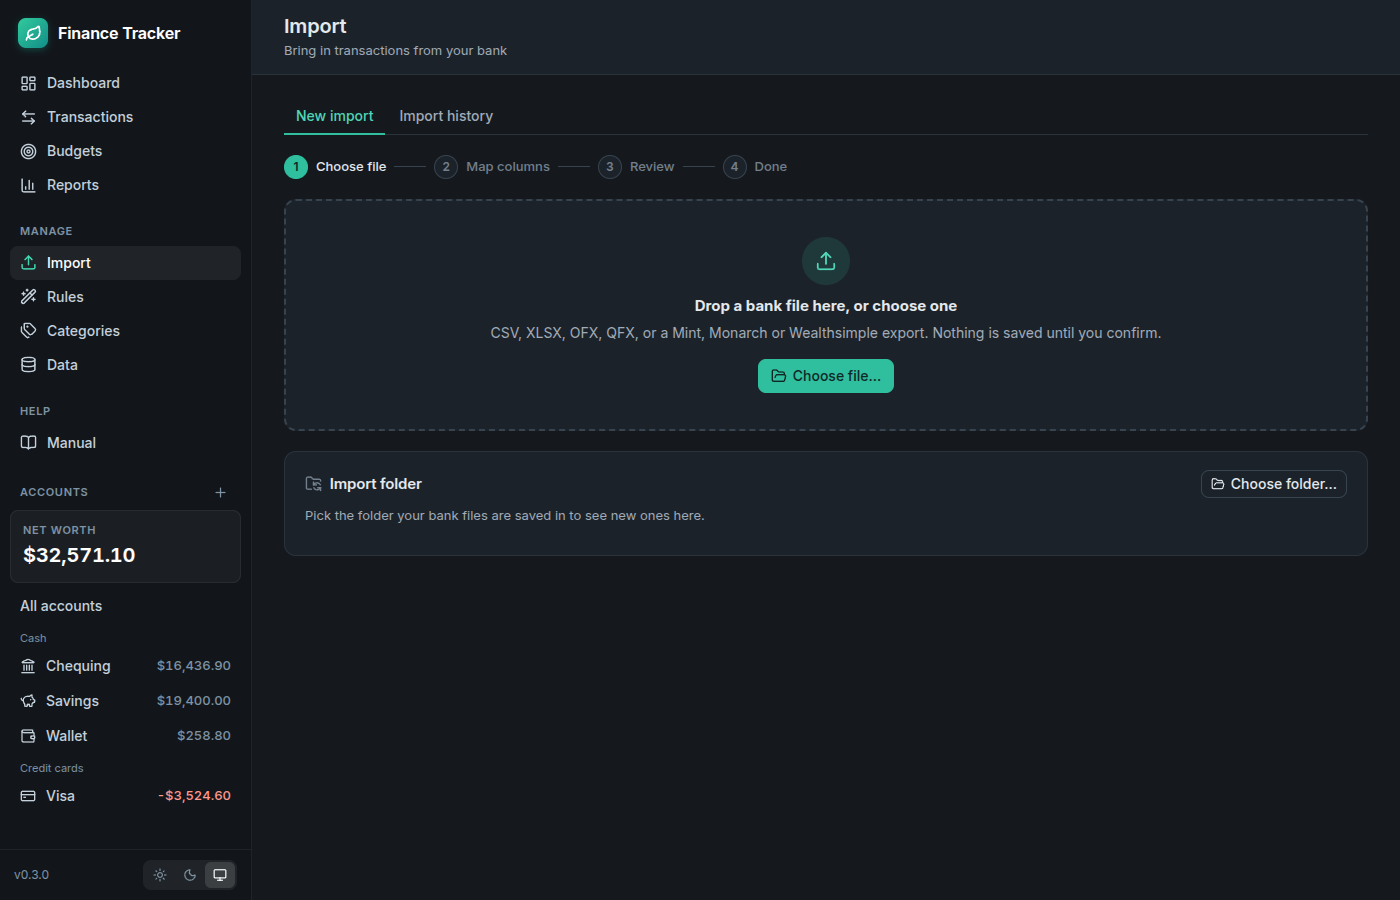
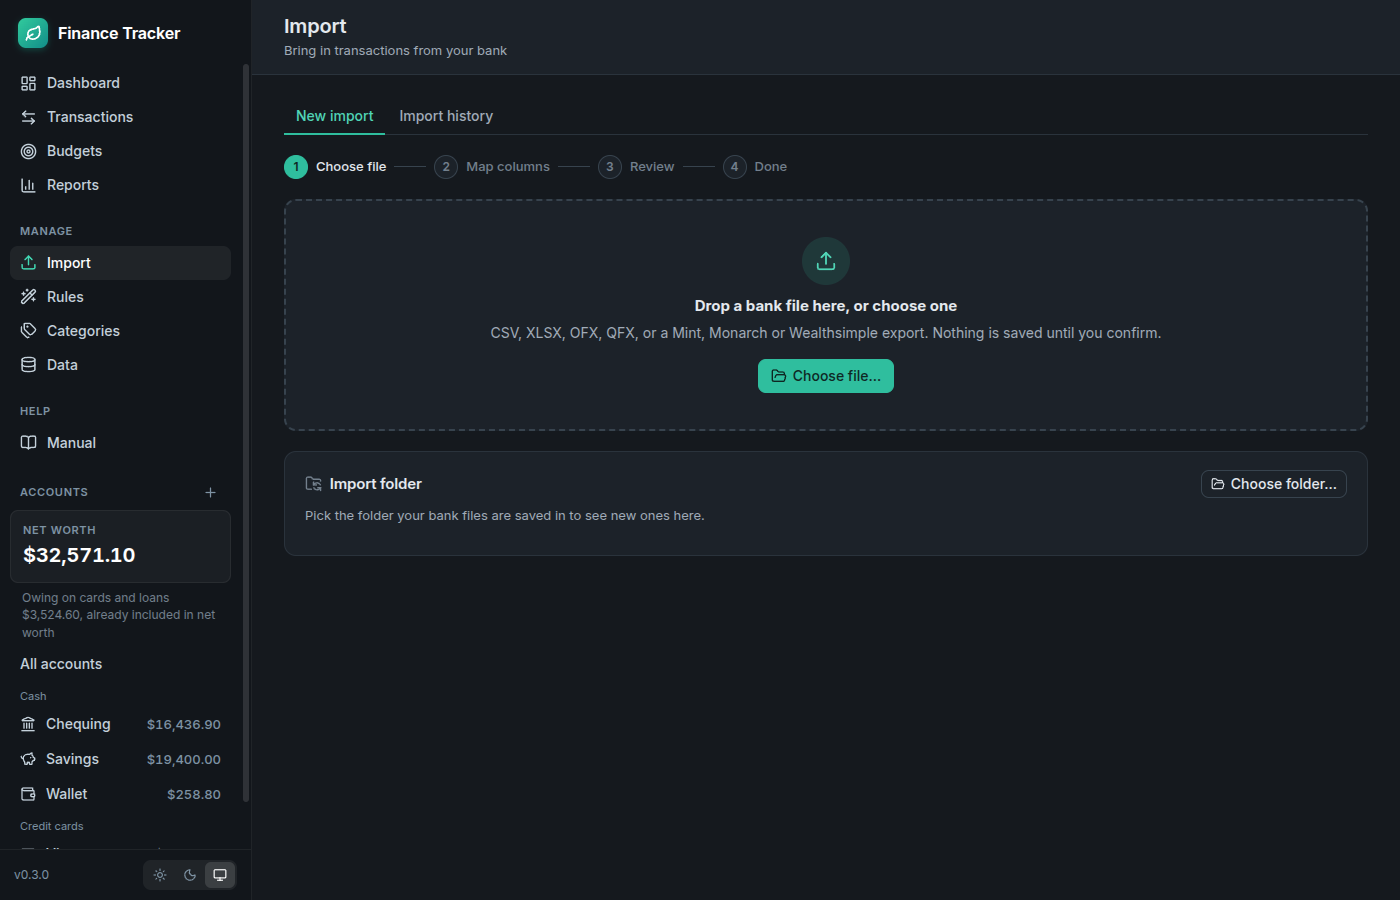
docs: feedback batch handoff and refreshed README screenshots
Claude-Session: https://claude.ai/code/session_015k7HiAdTpjfhzJFgrdU148

Changed region(s): [[0.0, 0.0933, 0.1843, 0.9333]]

diff --git a/CLAUDE.md b/CLAUDE.md
@@ -16,7 +16,7 @@ See `docs/design/00_project_brief.md`.
 
 ## Project status
 
-Milestones 1 (skeleton) and 2 (ledger: schema, core queries, IPC, transaction list, transfers, splits) are built. Milestone 3 (import) is built: CSV, OFX/QFX and Mint CSV, mapping profiles, duplicate detection, undo, history, and bank presets for RBC, TD and Tangerine, verified against real export headers and date formats (see `docs/design/04_import.md`). Milestone 4 (rules) is built in core, IPC and a basic editor (see `docs/design/05_rules.md`). Milestone 5 (search) is built: filters, saved searches and bulk actions (see `docs/design/06_search.md`). Milestone 6 (reports and dashboard) is built: category, income vs expenses, trend, payee and biggest-transaction reports, a dashboard home screen and category drill-down (see `docs/design/07_reports.md`). Milestone 7 (data safety) is built: database export and restore, transactions CSV export and automatic backups (see `docs/design/08_data_safety.md`). OFX/QFX and Mint import were clicked through headless (`import-formats.mjs`). Milestone 8 (packaging) is built: unsigned installers via electron-builder and a tag-triggered release workflow (see `docs/design/09_packaging.md`, ADR 0004). v0.1.0 is released (Linux AppImage, Windows exe, macOS arm64 dmg on the GitHub release page). After the MVP review: a Categories tab (add, rename, delete with reassign), a customizable dashboard, and account edit, archive and delete from the sidebar. After the design review (`docs/design/11_review_feedback.md`): duplicate hardening, flat categories with merge, category colours and icons, and per-category search totals are built. Also built: a rule prompt when a category is changed in the list, the watched import folder, default linking of card payments at import, category aliases (migration 10) and the hide-from-budgets flag (migration 11). budgets v1 (monthly standing amount per category, see `docs/design/12_budgets.md`, migration 12) with a dashboard widget. Look and feel (`docs/design/13_look_and_feel.md`, ADR 0005) is built: design tokens, light and dark themes, sidebar shell, dialogs and a layout pass on every screen; no `window.alert`/`window.confirm` remain. An in-app Manual (`docs/design/14_manual.md`) is built; keep `manualContent.ts` in step with user-visible changes. Spreadsheet (.xlsx) import is built (ADR 0006). Next: budget rollover (needs a decision, see design note 12).
+Milestones 1 (skeleton) and 2 (ledger: schema, core queries, IPC, transaction list, transfers, splits) are built. Milestone 3 (import) is built: CSV, OFX/QFX and Mint CSV, mapping profiles, duplicate detection, undo, history, and bank presets for RBC, TD and Tangerine, verified against real export headers and date formats (see `docs/design/04_import.md`). Milestone 4 (rules) is built in core, IPC and a basic editor (see `docs/design/05_rules.md`). Milestone 5 (search) is built: filters, saved searches and bulk actions (see `docs/design/06_search.md`). Milestone 6 (reports and dashboard) is built: category, income vs expenses, trend, payee and biggest-transaction reports, a dashboard home screen and category drill-down (see `docs/design/07_reports.md`). Milestone 7 (data safety) is built: database export and restore, transactions CSV export and automatic backups (see `docs/design/08_data_safety.md`). OFX/QFX and Mint import were clicked through headless (`import-formats.mjs`). Milestone 8 (packaging) is built: unsigned installers via electron-builder and a tag-triggered release workflow (see `docs/design/09_packaging.md`, ADR 0004). v0.1.0 is released (Linux AppImage, Windows exe, macOS arm64 dmg on the GitHub release page). After the MVP review: a Categories tab (add, rename, delete with reassign), a customizable dashboard, and account edit, archive and delete from the sidebar. After the design review (`docs/design/11_review_feedback.md`): duplicate hardening, flat categories with merge, category colours and icons, and per-category search totals are built. Also built: a rule prompt when a category is changed in the list, the watched import folder, default linking of card payments at import, category aliases (migration 10) and the hide-from-budgets flag (migration 11). budgets v1 (monthly standing amount per category, see `docs/design/12_budgets.md`, migration 12) with a dashboard widget. Look and feel (`docs/design/13_look_and_feel.md`, ADR 0005) is built: design tokens, light and dark themes, sidebar shell, dialogs and a layout pass on every screen; no `window.alert`/`window.confirm` remain. An in-app Manual (`docs/design/14_manual.md`) is built; keep `manualContent.ts` in step with user-visible changes. Spreadsheet (.xlsx) import is built (ADR 0006). After the feedback batch (handoff 2026-11-14_feedback-batch): category kind dropped (ADR 0007), card payment linking, searchable category picker, notes, rule toast, import column guessing with preview, and Find duplicates. Next: budget rollover (needs a decision, see design note 12).
 
 ## Scope
 

diff --git a/docs/handoffs/2026-11-14_feedback-batch.md b/docs/handoffs/2026-11-14_feedback-batch.md
@@ -1,0 +1,48 @@
+# Session Handoff: 2026-11-14 (user feedback batch)
+
+## Summary
+
+Worked through the owner's feedback list in one PR, one sub-agent at a time.
+
+## Completed
+
+- Fixed RBC Mastercard CSV import: header detection chose a short data row because RBC drops the
+  empty trailing USD$ cell. The missing-column error now names the column and lists the headers.
+- Card payments: broader payment wording for auto-link at import, a "Link card payments" dialog
+  for existing pairs, and cards and loans shown as "Owing $X" instead of a red negative balance.
+- Dropped category kind (migration 13, ADR 0007). Reports classify each category by the sign of
+  its net amount for the period. The "Change type" feature is gone and any non-system category
+  can be budgeted or merged.
+- Notes: add or edit from the row menu, with a note icon in the list.
+- Searchable category picker used for every category choice.
+- The "make a rule" prompt is now a bottom toast that disappears after about 8 seconds.
+- Import wizard guesses the column mapping (header names and content) and shows a live preview.
+- "Find duplicates" in the Transactions toolbar, with "Not a duplicate" dismissals (migration 14).
+- README screenshots regenerated.
+
+## Current state
+
+`npm run check` passes (276 tests). Migrations are at 14.
+
+## Not verified in the real UI
+
+- Alias matching in the category picker (unit-tested only) and the toast's "Create rule" button.
+- Import wizard: preset banner, headerless files, "Guess again", and the steps after the preview.
+- The RBC fix was reproduced through core handlers, not the UI.
+- Dark theme for the new picker, toast and dialogs.
+
+## Next actions
+
+1. Install the next release and try the RBC Mastercard file and a card payment link on real data
+   (the owner reports back; never read real data).
+2. Budget rollover decision (design note 12).
+3. Optional: suggest rules from import history (needs a design note).
+4. Import-time auto-link still needs the card row to exist first; a bare "VISA" description is
+   caught by the Link card payments dialog instead.
+
+## Risks or decisions needed
+
+- Migration 13 (drop category kind) is one way. Income and spending totals can shift when a
+  category nets across zero; net is unchanged.
+- Undo for a deleted duplicate re-creates the row with a new id and loses hand-edit markers and
+  the hide-from-budgets flag.
